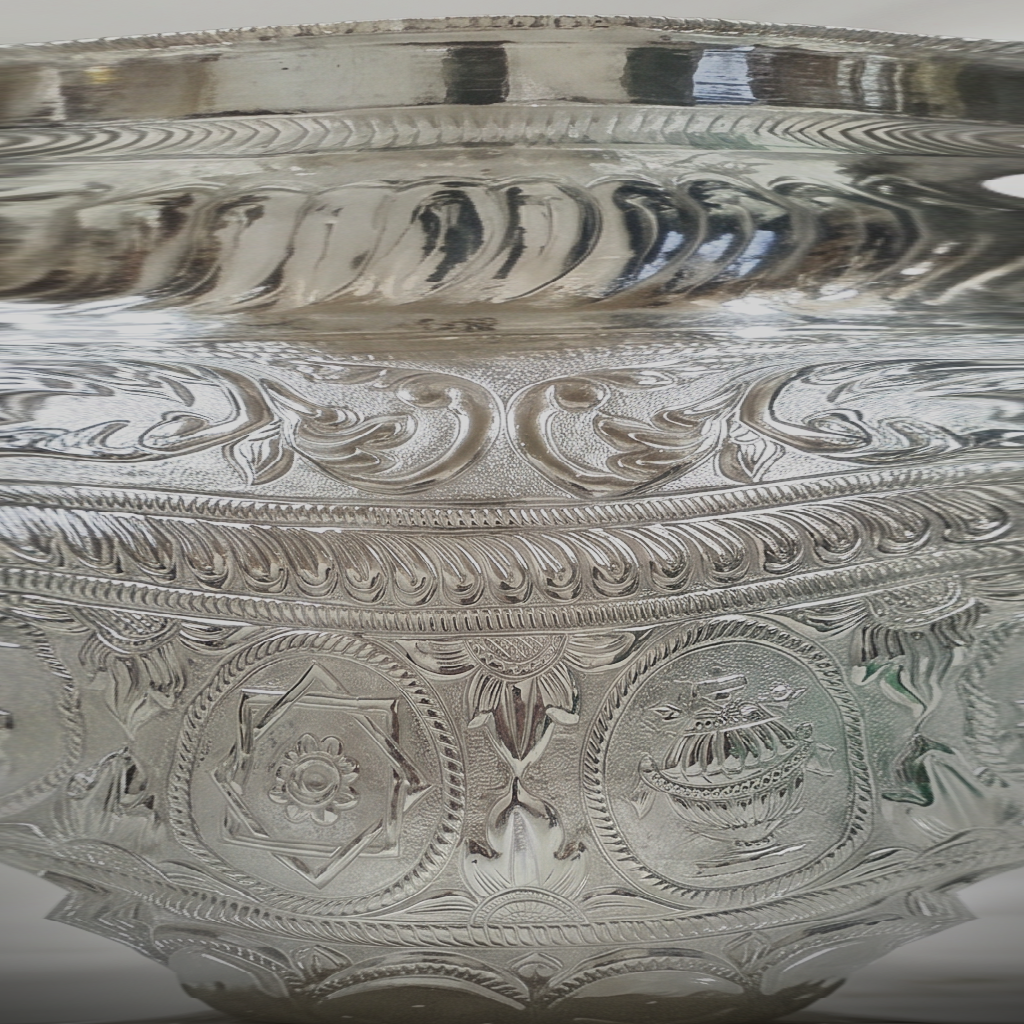
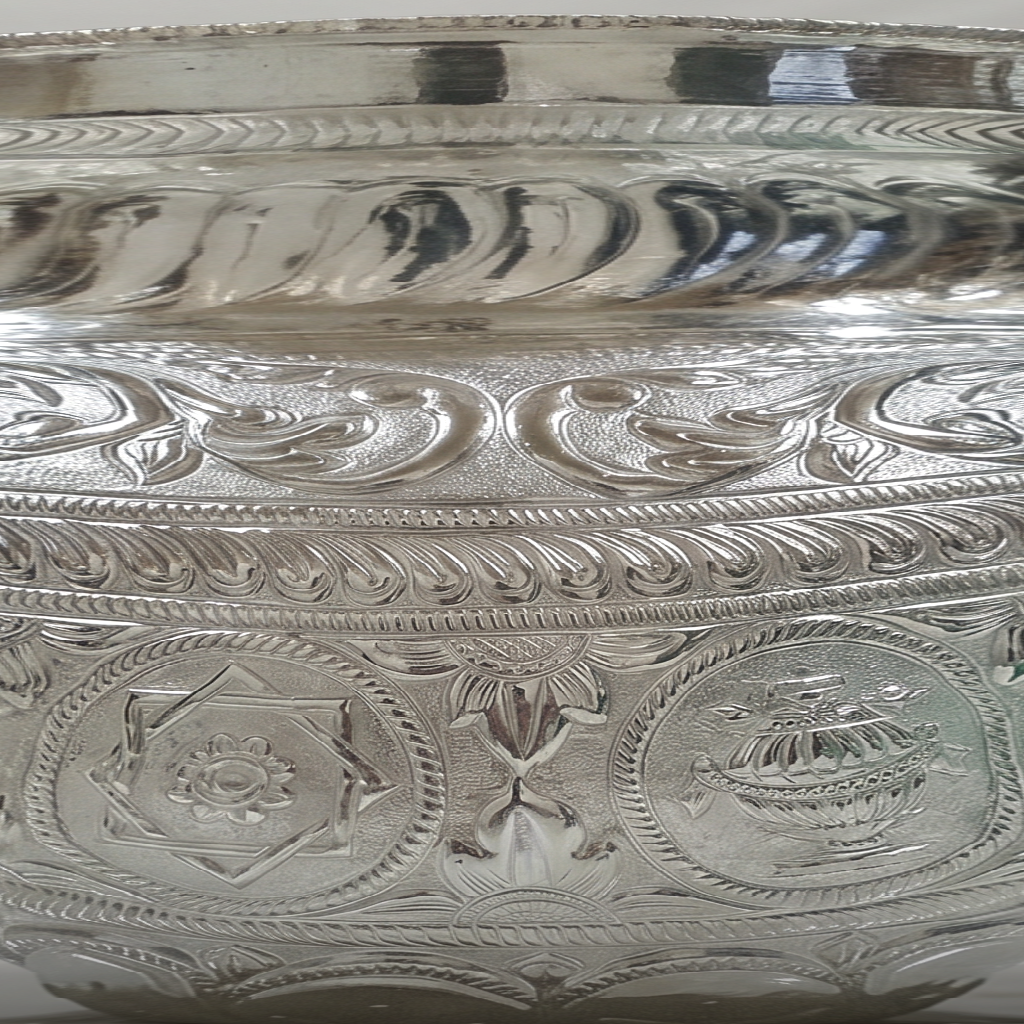
fix: kalash unwrap rebuilt from the photo's dense central arc (no edge stretch)
The previous unwrap resampled the photo out to +/-78 deg of arc — near
the edges one photo pixel stretched across ~5 texture columns, baking in
a ~28 deg smear stripe that swept the body during rotation. The unwrap
now uses only the photo's central +/-55 deg (max local stretch 1.74x —
imperceptible); the pattern repeats around the revolve like a genuine
turntable, mirrored seamlessly. Simulation at 0/40/80/120/160 deg shows
uniform crisp engraving with no bands. Cache-busted to ?v=3. Dev server
restarted with a clean .next (repeated `next build` runs against the
live dev server may have served stale chunks during earlier testing).

diff --git a/src/components/products/ProductViewer3D.tsx b/src/components/products/ProductViewer3D.tsx
@@ -41,7 +41,7 @@ function hasWebGL(): boolean {
 
 // The cylindrically-unwrapped photo (see geometry comment). Query param busts
 // stale browser caches whenever the texture is regenerated.
-const KALASH_TEXTURE_URL = "/kalash/kalash-unwrap.png?v=2";
+const KALASH_TEXTURE_URL = "/kalash/kalash-unwrap.png?v=3";
 /** height / maxRadius of the vessel (from kalash-profile.json). */
 const KALASH_ASPECT = 2.3323;
 /** Silhouette [y, r] pairs, y: 1=top → 0=bottom, r: 0..1 of max radius.
